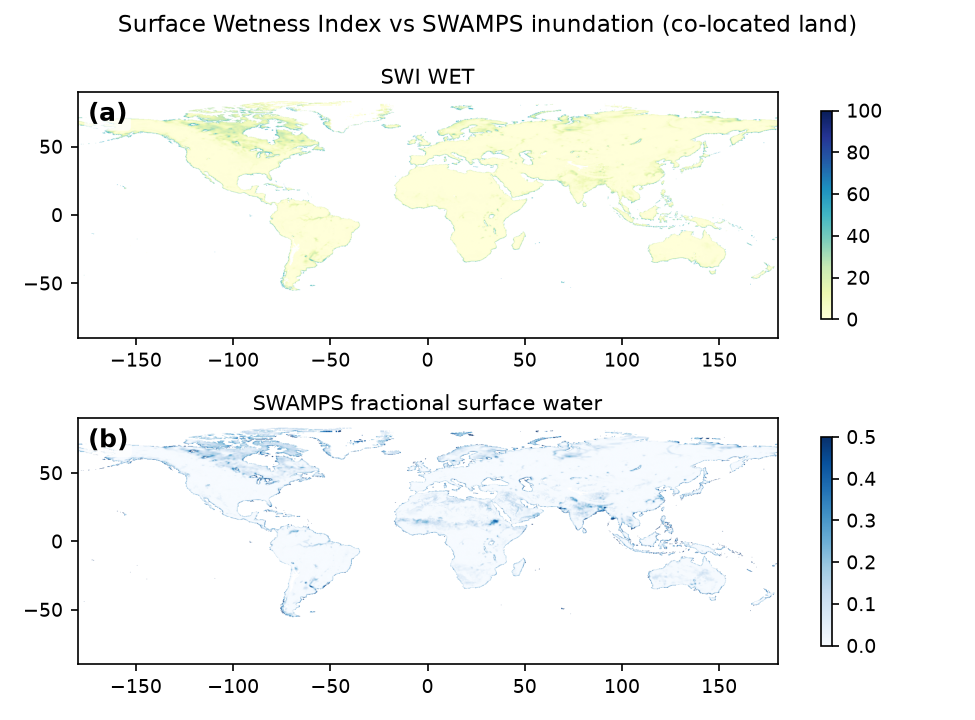
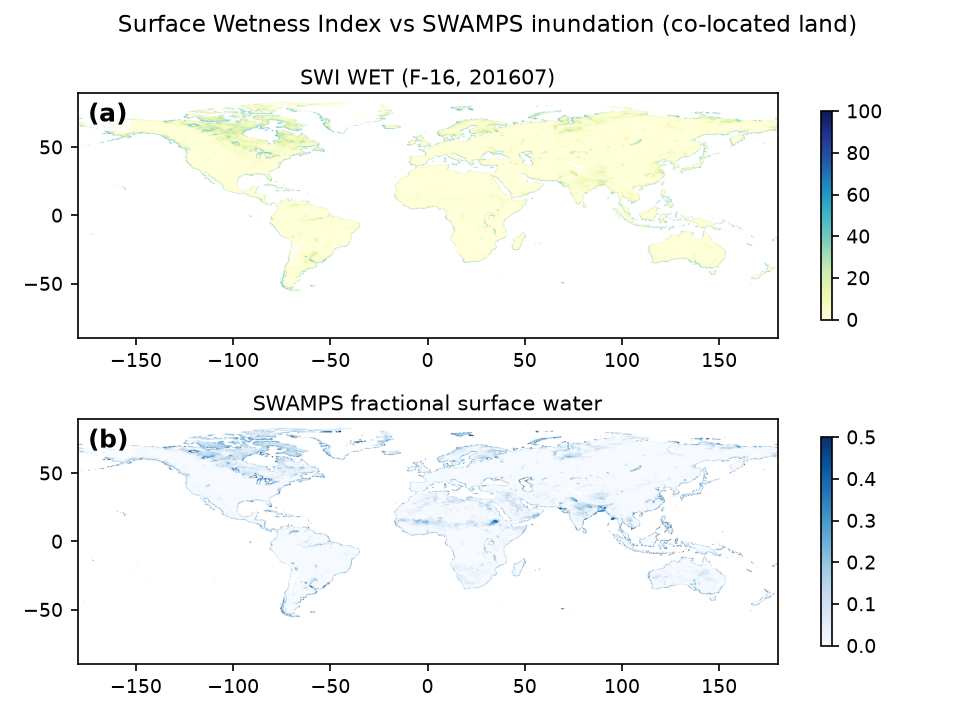
Label the SWAMPS figure's wetness panel like the others
Figure 3's panel (a) read "SWI WET" while the ESA CCI, SMAP and ERA5 figures
labeled the same quantity "SWI WET (F-16, YYYYMM)". A reader meeting two of
those figures in sequence had to work out they showed the same field.

The sensor and month are derived from the product the figure was built from
rather than hardcoded, because this script also draws the F-13 1998 comparison
and a hardcoded label would have named the wrong sensor there. An unrecognizable
product name falls back to the bare quantity instead of producing a half-built
label, which the test pins along with both real cases.

The figure is rebuilt so the committed PNG matches the code that draws it.

diff --git a/python/scripts/validate_swamps.py b/python/scripts/validate_swamps.py
@@ -9,6 +9,7 @@ inundated surface water.
 """
 
 import os
+import re
 import sys
 
 import numpy as np
@@ -50,9 +51,9 @@ def main():
     if "--from-cache" in sys.argv:
         cpath = sys.argv[sys.argv.index("--from-cache") + 1]
         out = sys.argv[sys.argv.index("--png") + 1] if "--png" in sys.argv else None
-        arrays, _ = figcache.load(cpath)
+        arrays, meta = figcache.load(cpath)
         _map(arrays["lat"], arrays["lon"], arrays["wet"], arrays["fw"],
-             arrays["mask"], out)
+             arrays["mask"], out, _wet_label(meta.get("built_from")))
         return 0
 
     if len(sys.argv) < 3:
@@ -110,7 +111,7 @@ def main():
         # and save the cache only after a successful render.
         stored = figcache.as_stored(lat=plat, lon=plon, wet=wet, fw=fw_on, mask=m)
         _map(stored["lat"], stored["lon"], stored["wet"], stored["fw"],
-             stored["mask"], png)
+             stored["mask"], png, _wet_label(product))
         if "--no-cache" not in sys.argv:
             figcache.save(figcache.cache_path("fig_swamps"), {
                 "figure": "fig_swamps",
@@ -123,7 +124,24 @@ def main():
     return 0
 
 
-def _map(lat, lon, wet, fw, mask, out):
+def _wet_label(product_name):
+    """Panel (a) title, in the same form the other validators use.
+
+    Figure 3 labeled this panel "SWI WET" while the ESA CCI, SMAP and ERA5
+    figures labeled the same quantity "SWI WET (F-16, YYYYMM)". A reader
+    meeting both in adjacent figures has to work out they are the same thing,
+    so the sensor and month are carried here too, derived from the product the
+    figure was built from rather than hardcoded, because this script also draws
+    the F-13 1998 comparison.
+    """
+    m = re.match(r"SWI_(F\d+)_(\d{6})_", os.path.basename(product_name or ""))
+    if not m:
+        return "SWI WET"
+    sat, ym = m.group(1), m.group(2)
+    return f"SWI WET ({sat[0]}-{sat[1:]}, {ym})"
+
+
+def _map(lat, lon, wet, fw, mask, out, wet_label="SWI WET"):
     import matplotlib
     matplotlib.use("Agg")
     import matplotlib.pyplot as plt
@@ -135,7 +153,7 @@ def _map(lat, lon, wet, fw, mask, out):
     v = lambda a: np.roll(np.where(mask, a, np.nan), roll, axis=1)
     fig, ax = plt.subplots(2, 1, figsize=(w, 4.8))
     for a, letter, (img, ttl, cm, lo, hi) in zip(ax, ("(a)", "(b)"), [
-            (v(wet), "SWI WET", "YlGnBu", 0, 100),
+            (v(wet), wet_label, "YlGnBu", 0, 100),
             (v(fw), "SWAMPS fractional surface water", "Blues", 0, 0.5)]):
         im = a.imshow(img, origin="lower", extent=ext, aspect="auto", cmap=cm,
                       vmin=lo, vmax=hi)

diff --git a/python/tests/test_validate.py b/python/tests/test_validate.py
@@ -218,3 +218,21 @@ def test_block_ids_separate_distant_points():
     ids = val.block_ids(lat, lon, deg=10.0)
     assert ids[0] == ids[1]      # same 10-degree block
     assert ids[2] != ids[0]
+
+
+def test_the_swamps_panel_label_matches_the_other_validators():
+    """Figure 3's panel (a) must name the same quantity the same way.
+
+    The ESA CCI, SMAP and ERA5 figures label it "SWI WET (F-16, YYYYMM)" while
+    this one said plain "SWI WET", so a reader meeting Figures 3 and 4 had to
+    work out they showed the same field. The sensor and month are derived from
+    the product the figure was built from, not hardcoded, because this script
+    also draws the F-13 1998 comparison.
+    """
+    from scripts.validate_swamps import _wet_label
+    assert _wet_label("SWI_F16_201607_monthly_v0cal.nc") == "SWI WET (F-16, 201607)"
+    assert _wet_label("SWI_F13_199807_monthly_v0cal.nc") == "SWI WET (F-13, 199807)"
+    # An unrecognizable name must not produce a half-built label naming the
+    # wrong sensor; it falls back to the bare quantity.
+    for junk in ("", None, "odd_name.nc", "SWI_F16_monthly.nc"):
+        assert _wet_label(junk) == "SWI WET"
